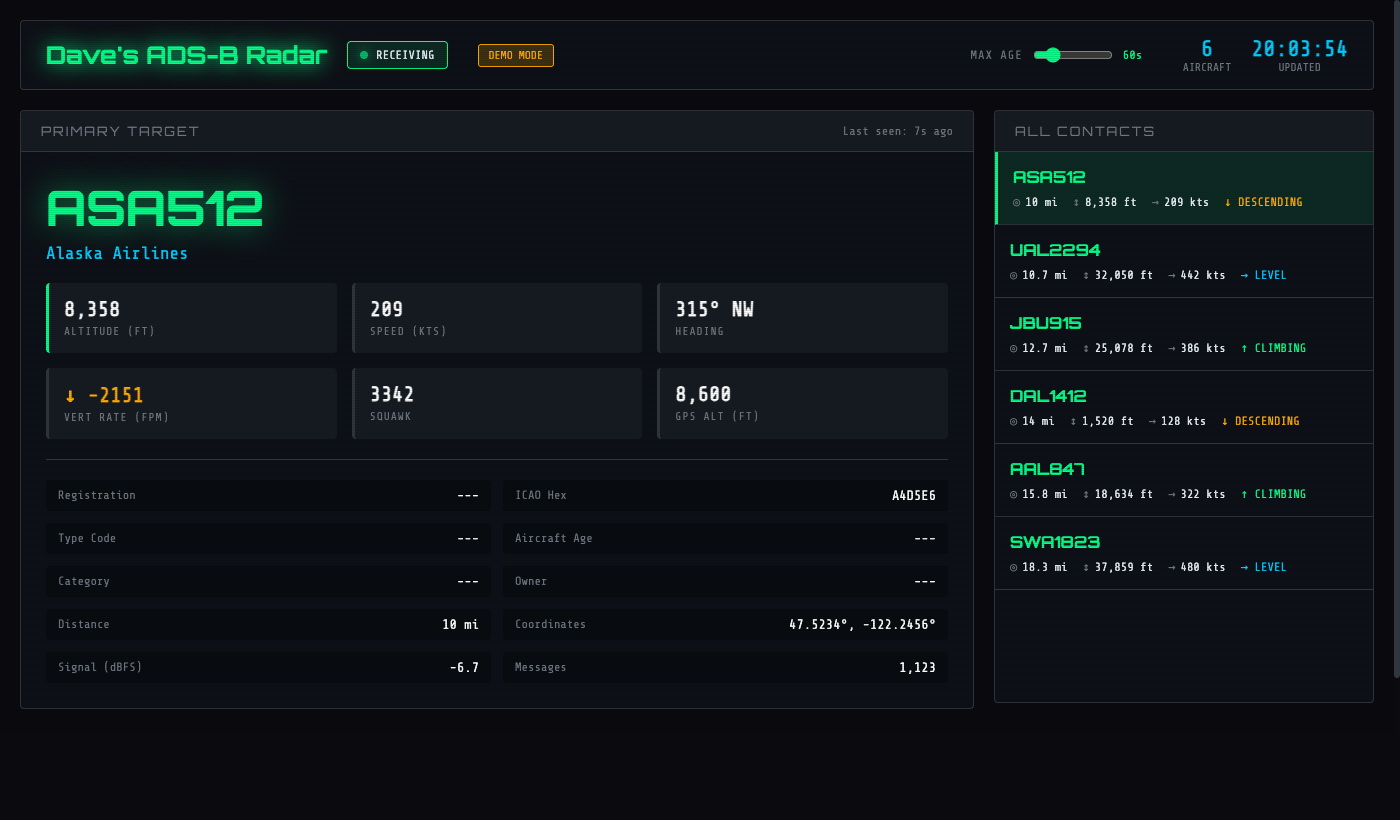
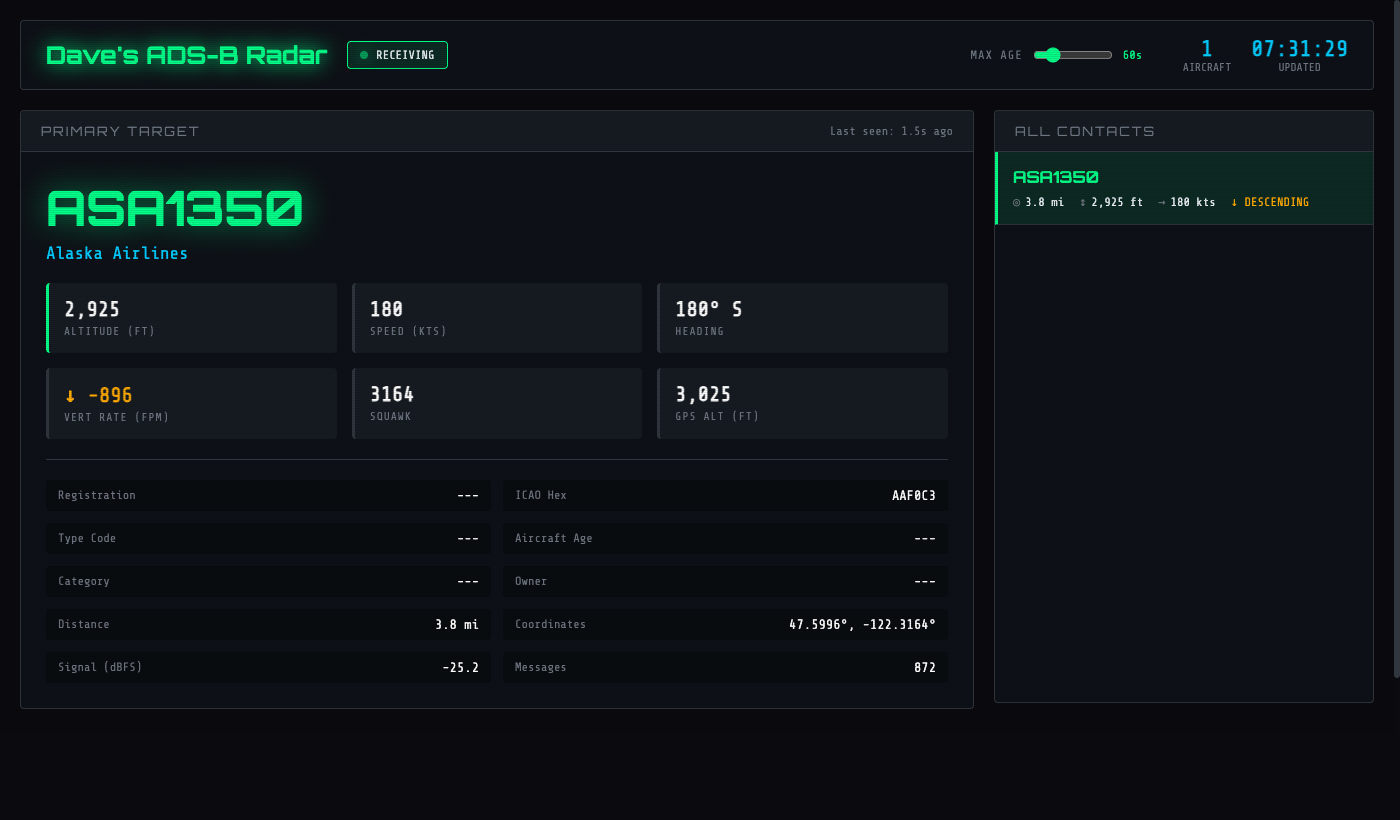
Slider steps of 10s, default 120s, hero screenshot in README

diff --git a/flight_dashboard/templates/index.html b/flight_dashboard/templates/index.html
@@ -470,7 +470,7 @@
             <div class="header-right">
                 <div class="threshold-control">
                     <label>Max Age</label>
-                    <input type="range" id="threshold-slider" min="5" max="300" step="5" value="60">
+                    <input type="range" id="threshold-slider" min="10" max="300" step="10" value="120">
                     <span class="threshold-value"><span id="threshold-display">60</span>s</span>
                 </div>
                 <div class="header-stat">

diff --git a/flight_dashboard/app.py b/flight_dashboard/app.py
@@ -19,7 +19,7 @@ app = Flask(__name__)
 
 # Configuration
 DEMO_MODE = os.environ.get('DEMO_MODE', 'false').lower() == 'true'
-seen_threshold = int(os.environ.get('SEEN_THRESHOLD', 60))
+seen_threshold = int(os.environ.get('SEEN_THRESHOLD', 120))
 DASHBOARD_TITLE = os.environ.get('DASHBOARD_TITLE', "Dave's ADS-B Radar")
 
 # Antenna location (Shoreline, WA)
@@ -276,7 +276,7 @@ def api_seen_threshold():
     global seen_threshold
     if request.method == 'POST':
         value = request.json.get('value')
-        if isinstance(value, int) and 5 <= value <= 300:
+        if isinstance(value, int) and 10 <= value <= 300:
             seen_threshold = value
     return jsonify({'seen_threshold': seen_threshold})
 

diff --git a/README.md b/README.md
@@ -1,13 +1,15 @@
 # Dave's Custom Flight Radar Dashboard
 
+![Dashboard](flight_dashboard/screenshots/dashboard-main.png)
+
 A real-time flight tracking dashboard for Raspberry Pi that displays nearby aircraft using ADS-B data from dump1090.
 
 ## Screenshots
 
-![Dashboard Main View](screenshots/dashboard-main.png)
+![Dashboard Main View](flight_dashboard/screenshots/dashboard-main.png)
 *Live view showing primary target with full aircraft details and all contacts list*
 
-![Dashboard Detail View](screenshots/dashboard-detail.png)
+![Dashboard Detail View](flight_dashboard/screenshots/dashboard-detail.png)
 *Aircraft detail panel showing registration, owner, type code, age, and signal strength*
 
 ## Features
